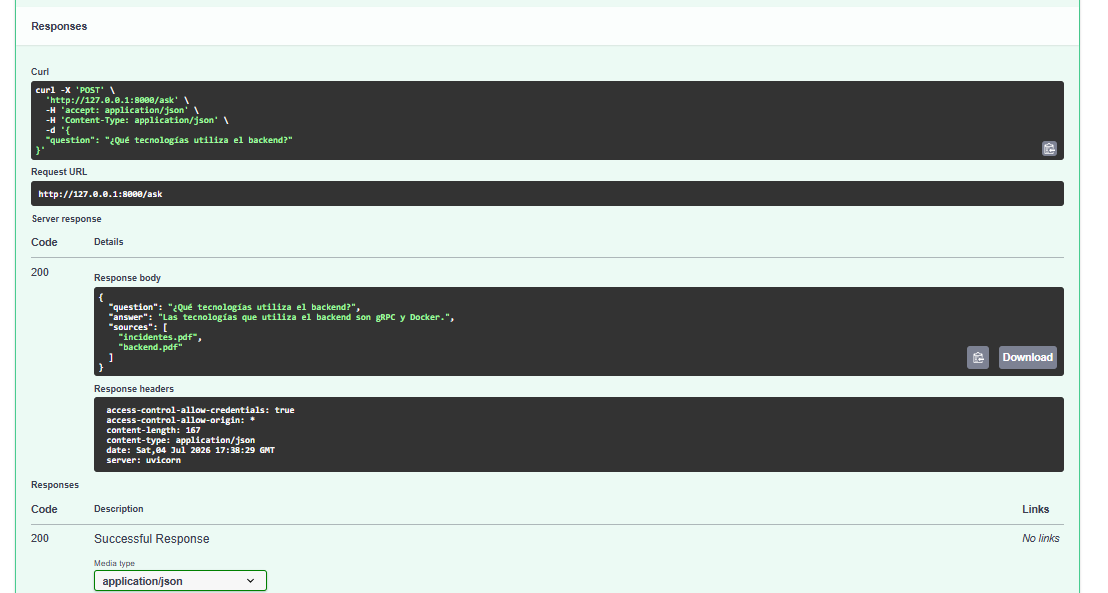
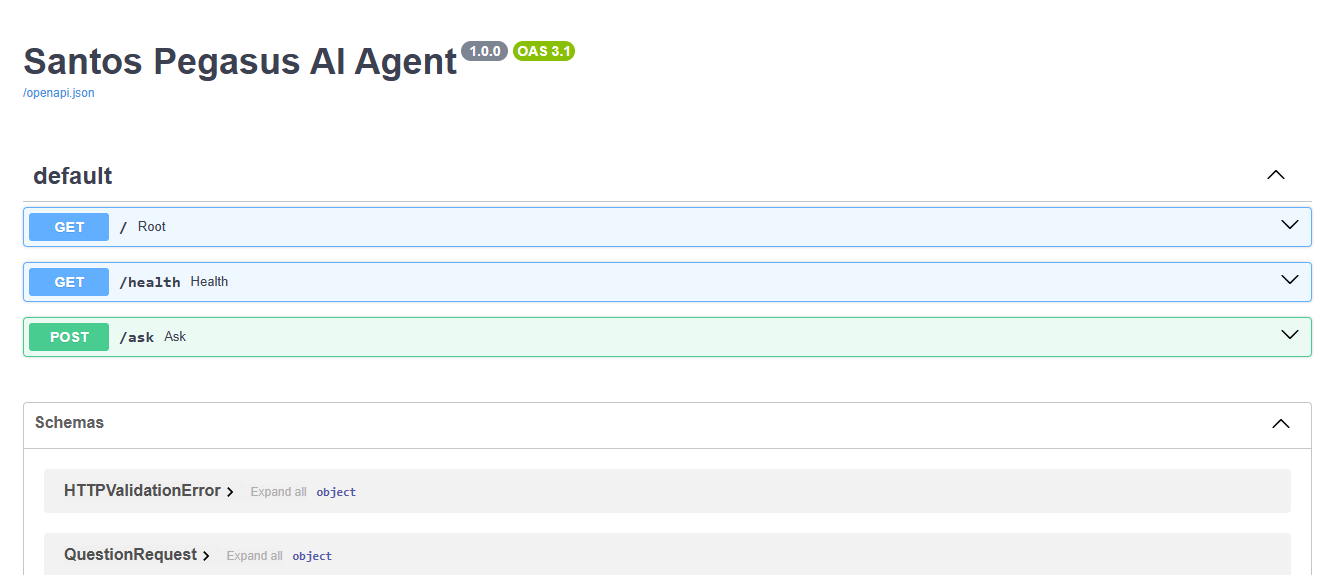
Use CPU-only PyTorch dependencies

diff --git a/app/rag.py b/app/rag.py
@@ -1,42 +1,10 @@
 from dotenv import load_dotenv
 import os
 
-from langchain_google_genai import ChatGoogleGenerativeAI
-from langchain_huggingface import HuggingFaceEmbeddings
-from langchain_community.vectorstores import FAISS
-from langchain.chains import RetrievalQA
-from langchain_core.prompts import PromptTemplate
-
 load_dotenv()
 
 VECTORSTORE_DIR = "vectorstore"
 EMBEDDING_MODEL = "sentence-transformers/all-MiniLM-L6-v2"
-
-# ============================================================
-# PROMPT
-# ============================================================
-
-prompt = PromptTemplate(
-    input_variables=["context", "question"],
-    template="""
-Eres un asistente corporativo de Santos Pegasus Soluciones.
-
-Responde únicamente utilizando la información proporcionada
-en el contexto.
-
-Si la respuesta no aparece en el contexto responde exactamente:
-
-"No tengo información suficiente para responder esa pregunta."
-
-Contexto:
-{context}
-
-Pregunta:
-{question}
-
-Respuesta:
-"""
-)
 
 # ============================================================
 # CACHE GLOBAL
@@ -54,9 +22,37 @@ def get_qa_chain():
 
     if qa_chain is None:
 
+        from langchain_google_genai import ChatGoogleGenerativeAI
+        from langchain_huggingface import HuggingFaceEmbeddings
+        from langchain_community.vectorstores import FAISS
+        from langchain.chains import RetrievalQA
+        from langchain_core.prompts import PromptTemplate
+
         print("=" * 60)
         print("🚀 Inicializando RAG...")
         print("=" * 60)
+
+        prompt = PromptTemplate(
+            input_variables=["context", "question"],
+            template="""
+Eres un asistente corporativo de Santos Pegasus Soluciones.
+
+Responde únicamente utilizando la información proporcionada
+en el contexto.
+
+Si la respuesta no aparece en el contexto responde exactamente:
+
+"No tengo información suficiente para responder esa pregunta."
+
+Contexto:
+{context}
+
+Pregunta:
+{question}
+
+Respuesta:
+"""
+        )
 
         embeddings = HuggingFaceEmbeddings(
             model_name=EMBEDDING_MODEL,

diff --git a/app/api.py b/app/api.py
@@ -1,7 +1,6 @@
 from fastapi import FastAPI
 from fastapi.middleware.cors import CORSMiddleware
 from app.models import QuestionRequest, QuestionResponse
-from app.rag import ask_question
 
 app = FastAPI(
     title="Santos Pegasus AI Agent",
@@ -26,7 +25,13 @@ def root():
         "status": "ok"
     }
 
[email redacted]("/health")
+def health():
+    return {"status": "ok"}
+
 @app.post("/ask", response_model=QuestionResponse)
 def ask(payload: QuestionRequest):
+    from app.rag import ask_question
+
     response = ask_question(payload.question)
     return QuestionResponse(**response)